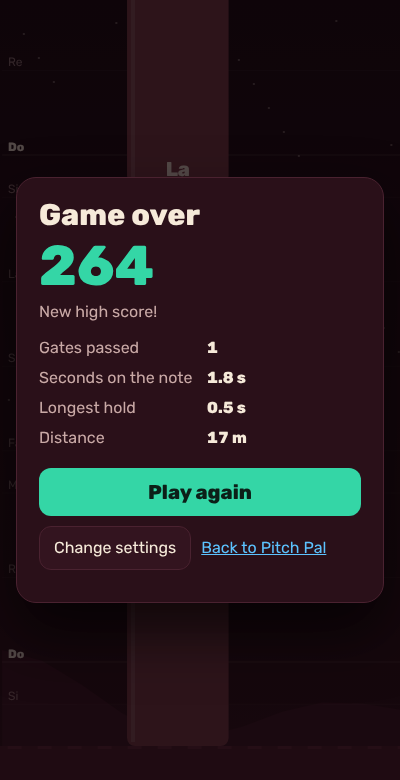
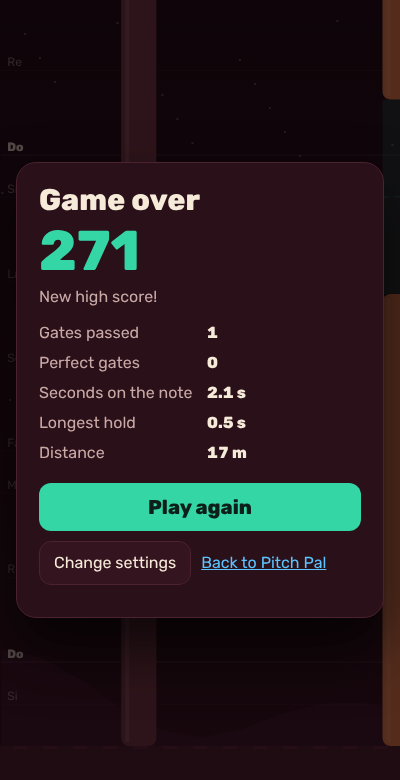
Pitch Glider: perfect-line feedback, Perfect gate celebration, Beginner + Middle voice defaults, settings behind a button
Claude-Session: https://claude.ai/code/session_01F1MwCQZm1ikPFmdXvYPEhy

diff --git a/index.html b/index.html
@@ -36,6 +36,11 @@ a{color:var(--lo)}
 .err{color:var(--hi)}
 #target{position:fixed;left:50%;top:78px;transform:translateX(-50%);background:#1b0a12d9;border:1px solid var(--line);border-radius:14px;padding:6px 18px;text-align:center;pointer-events:none;line-height:1.1}
 #target span{font-size:13px;color:var(--mute)}#target b{display:block;font-size:40px;font-weight:800;color:var(--on)}#target i{display:block;font-style:normal;font-weight:700;font-size:16px;min-height:1.2em}
+.pop{position:fixed;left:50%;top:42%;transform:translate(-50%,-50%);font-size:clamp(34px,9vw,60px);font-weight:800;color:#ffd166;text-shadow:0 0 24px #ffd16699,0 3px 0 #7a4a00;pointer-events:none;animation:pop 1.6s ease-out forwards;white-space:nowrap;text-align:center;line-height:1}
+.pop small{display:block;font-size:.4em;color:var(--ink);text-shadow:none;margin-top:6px}
+@keyframes pop{0%{opacity:0;transform:translate(-50%,-50%) scale(.4)}18%{opacity:1;transform:translate(-50%,-50%) scale(1.15)}30%{transform:translate(-50%,-50%) scale(1)}80%{opacity:1}100%{opacity:0;transform:translate(-50%,-90%) scale(1)}}
+#target.perfect{border-color:#ffd166;box-shadow:0 0 24px #ffd16655}#target.perfect b{color:#ffd166}
+@media(prefers-reduced-motion:reduce){.pop{animation-duration:2.4s}}
 [hidden]{display:none!important}
 </style>
 </head>
@@ -53,9 +58,13 @@ a{color:var(--lo)}
   <div class="card">
     <h1>Pitch Glider</h1>
     <p>Your voice is the bird's wings. Sing <b>higher</b> to rise, <b>lower</b> to drop, and stay quiet to glide down. Hold the right note to fly through each gate. Long tunnels mean long notes!</p>
+    <p id="sumLine" style="font-size:14px"></p>
+    <button class="go" id="goBtn">Start singing</button>
+    <button id="setBtn" style="width:100%;margin-top:8px" aria-expanded="false">Settings</button>
+    <div id="settings" hidden>
     <div class="row">
-      <select id="range" aria-label="Voice range"><option value="45">Lower voice</option><option value="52">Middle voice</option><option value="57">Higher voice</option></select>
-      <select id="diff" aria-label="Difficulty"><option value="0">Beginner (very slow)</option><option value="1" selected>Easy</option><option value="2">Normal</option><option value="3">Hard</option></select>
+      <select id="range" aria-label="Voice range"><option value="45">Lower voice</option><option value="52" selected>Middle voice</option><option value="57">Higher voice</option></select>
+      <select id="diff" aria-label="Difficulty"><option value="0" selected>Beginner (very slow)</option><option value="1">Easy</option><option value="2">Normal</option><option value="3">Hard</option></select>
     </div>
     <div class="row">
       <select id="key" aria-label="Scale key"><option value="0">Do (C)</option><option value="2">Re (D)</option><option value="4">Mi (E)</option><option value="5">Fa (F)</option><option value="7">Sol (G)</option><option value="9">La (A)</option><option value="11">Si (B)</option><option value="1">Do# (C#)</option><option value="3">Re# (D#)</option><option value="6">Fa# (F#)</option><option value="8">Sol# (G#)</option><option value="10">La# (A#)</option></select>
@@ -65,7 +74,7 @@ a{color:var(--lo)}
     <div class="row"><select id="guide" aria-label="Guide note"><option value="hold" selected>Keep playing the note until I pass the gate</option><option value="hint">Play each note once, briefly</option><option value="off">No guide note</option></select></div>
     <label><input type="checkbox" id="fold" checked> Any octave counts</label><br>
     <button id="listen" style="margin-top:6px">Listen to the scale</button>
-    <button class="go" id="goBtn">Start singing</button>
+    </div>
     <p class="err" id="err" hidden></p>
     <p style="font-size:14px">Use headphones: otherwise the mic hears the guide note too. Bluetooth headphones on Android: connect them after you press Start. <a href="pitch-pal.html">Back to Pitch Pal</a></p>
   </div>
@@ -77,6 +86,7 @@ a{color:var(--lo)}
     <div class="big" id="eScore">0</div><p id="eBest">&nbsp;</p>
     <div class="stats">
       <span>Gates passed</span><b id="eGates">0</b>
+      <span>Perfect gates</span><b id="ePerf">0</b>
       <span>Seconds on the note</span><b id="eSec">0</b>
       <span>Longest hold</span><b id="eHold">0</b>
       <span>Distance</span><b id="eDist">0</b>
@@ -137,11 +147,13 @@ function guide(note){ // a soft, steady guide tone; note=null fades it out
     if(gv.note==null){gv.o.frequency.setValueAtTime(m2f(note),t);gv.o2.frequency.setValueAtTime(2*m2f(note),t)}
     gv.gn.gain.setTargetAtTime(0.13,t,0.04);gv.note=note}
 }
+function bigPop(t,sub){const d=document.createElement('div');d.className='pop';d.textContent=t;const sm=document.createElement('small');sm.textContent=sub;d.appendChild(sm);document.body.appendChild(d);setTimeout(()=>d.remove(),2600);if(navigator.vibrate)try{navigator.vibrate(60)}catch(e){}}
+function fanfare(){if(!ctx)return;const t=ctx.currentTime;[0,4,7,12].forEach((x,i)=>{const o=ctx.createOscillator(),gn=ctx.createGain();o.type='triangle';o.frequency.value=m2f(72+x);o.connect(gn);gn.connect(ctx.destination);const s0=t+i*0.08;gn.gain.setValueAtTime(0,s0);gn.gain.linearRampToValueAtTime(0.12,s0+0.02);gn.gain.exponentialRampToValueAtTime(0.001,s0+0.5);o.start(s0);o.stop(s0+0.55)})}
 function ding(){if(!ctx)return;const o=ctx.createOscillator(),gn=ctx.createGain(),t=ctx.currentTime;o.type='sine';o.frequency.setValueAtTime(1320,t);o.frequency.setValueAtTime(1760,t+0.07);o.connect(gn);gn.connect(ctx.destination);gn.gain.setValueAtTime(0.08,t);gn.gain.exponentialRampToValueAtTime(0.001,t+0.25);o.start(t);o.stop(t+0.26)}
 
 function newGame(){
   const base=+$('range').value;KEY=+$('key').value;let root=base+((KEY-base)%12+12)%12;if(root>base+5)root-=12;lo=root-2;hi=root+14;
-  const L=LV[+$('diff').value];S={L,t:0,dist:0,speed:L.v0,y:GROUND(),vy:0,pitch:null,obs:[],nextX:PX()+L.v0*4,lives:L.lives,inv:0,score:0,gates:0,onSec:0,hold:0,holdBest:0,shake:0,parts:[],base,gap:L.gap};
+  const L=LV[+$('diff').value];S={L,t:0,dist:0,speed:L.v0,y:GROUND(),vy:0,pitch:null,obs:[],nextX:PX()+L.v0*4,lives:L.lives,inv:0,score:0,gates:0,onSec:0,hold:0,holdBest:0,shake:0,parts:[],base,gap:L.gap,perf:Math.max(0.2,Math.min(0.5,L.gap*0.22)),perfects:0};
   SC=$('scale').value.split(',').map(Number);KEY=+$('key').value;S.order=$('order').value;S.idx=0;S.dir=1;
   S.notes=[];for(let m=lo+1;m<=hi-1;m++)if(inScale(m))S.notes.push(m);
   if(S.order==='up'){const t=S.notes.findIndex(m=>((m-KEY)%12+12)%12===0);S.run=S.notes.slice(Math.max(0,t),Math.max(0,t)+SC.length+1);if(S.run.length<3)S.run=S.notes.slice(0,SC.length+1)}
@@ -175,17 +187,20 @@ function step(dt){
     if($('fold').checked){const ref=ahead?ahead.note:(lo+hi)/2;m-=12*Math.round((m-ref)/12)}
     m=Math.max(lo,Math.min(hi,m));const ty=Y(m);S.y+=(ty-S.y)*Math.min(1,dt*14);S.vy=0;S.pitch=m;
   }else{S.pitch=null;S.vy=Math.min(S.vy+220*dt,140);S.y=Math.min(GROUND()-14,S.y+S.vy*dt)}
-  const px=S.dist+PX(),r=14;let inside=false;
+  const px=S.dist+PX(),r=14;let inside=false,perfNow=false;
   for(const o of S.obs){
     const sx=o.x-S.dist;
     if($('guide').value==='hint'&&!o.hinted&&sx<PX()+S.speed*S.L.lead){o.hinted=true;tone(o.note,0.8)}
     const gh=Math.max(r+10,S.gap*(GROUND()-TOP())/(hi-lo)),gy=Y(o.note);
     if(px+r>o.x&&px-r<o.x+o.len){
       if(S.y-r<gy-gh||S.y+r>gy+gh){if(S.inv<=0&&!o.hit){o.hit=true;S.lives--;S.inv=1.4;S.shake=0.4;S.hold=0;if(S.lives<=0)return end()}}
-      else if(S.pitch!=null){inside=true}
+      else if(S.pitch!=null){inside=true;o.inF=(o.inF||0)+dt;const pf=Math.abs(S.pitch-o.note)<S.perf;if(pf){o.perfF=(o.perfF||0)+dt;perfNow=true}}
     }
-    if(!o.passed&&px-r>o.x+o.len){o.passed=true;if(!o.hit){S.gates++;S.score+=50+Math.round(o.len/S.speed*40);ding();burst(PX(),S.y)}}
+    if(!o.passed&&px-r>o.x+o.len){o.passed=true;if(!o.hit){S.gates++;S.score+=50+Math.round(o.len/S.speed*40);const need=o.len/S.speed;
+      if((o.perfF||0)>=Math.max(0.3,need*0.7)){S.perfects++;S.score+=200;fanfare();burst(PX(),S.y,'255,209,102',40);bigPop('Perfect gate!','+200 · '+S.perfects+(S.perfects>1?' perfect gates':' perfect gate'))}else{ding();burst(PX(),S.y)}}}
   }
+  if(perfNow){S.score+=dt*30;S.sparkT=(S.sparkT||0)-dt;if(S.sparkT<=0){S.sparkT=0.05;S.parts.push({x:PX()-10,y:S.y+(Math.random()-0.5)*16,vx:-120-Math.random()*60,vy:(Math.random()-0.5)*60,life:0.5,c:'255,209,102'})}}
+  S.perfNow=perfNow;
   if(inside){S.onSec+=dt;S.hold+=dt;S.holdBest=Math.max(S.holdBest,S.hold);S.score+=dt*30*(1+Math.min(4,Math.floor(S.hold/2)))}else S.hold=0;
   S.score+=dt*5;S.inv-=dt;S.shake=Math.max(0,S.shake-dt);
   S.obs=S.obs.filter(o=>o.x+o.len>S.dist-50);spawnUntil();
@@ -194,10 +209,10 @@ function step(dt){
   S.inside=inside;
   if($('guide').value==='hold'){const tgt=S.obs.find(o=>!o.passed&&o.x+o.len>px-r-2&&o.x-S.dist<PX()+S.speed*S.L.lead);guide(tgt?tgt.note:null)}else guide(null);
   if(ahead){$('tNote').textContent=sol(ahead.note);const tg=Math.max(0.5,S.gap*0.8);
-    const dd=S.pitch==null?null:S.pitch-ahead.note;$('tDir').textContent=dd==null?'sing now…':Math.abs(dd)<=tg?'✓ hold it!':dd<0?'▲ go higher':'▼ go lower';
-    $('tDir').style.color=dd==null?'#c9a9a6':Math.abs(dd)<=tg?'#34d6a6':dd<0?'#5cc3ff':'#ff8a4c'}
+    const dd=S.pitch==null?null:S.pitch-ahead.note;$('target').classList.toggle('perfect',dd!=null&&Math.abs(dd)<S.perf);$('tDir').textContent=dd==null?'sing now…':Math.abs(dd)<S.perf?'★ perfect!':Math.abs(dd)<=tg?'✓ hold it!':dd<0?'▲ go higher':'▼ go lower';
+    $('tDir').style.color=dd==null?'#c9a9a6':Math.abs(dd)<S.perf?'#ffd166':Math.abs(dd)<=tg?'#34d6a6':dd<0?'#5cc3ff':'#ff8a4c'}
 }
-function burst(x,y){for(let i=0;i<14;i++){const a=Math.random()*6.28,v=80+Math.random()*120;S.parts.push({x,y,vx:Math.cos(a)*v,vy:Math.sin(a)*v-60,life:0.6+Math.random()*0.4})}}
+function burst(x,y,c='52,214,166',n=14){for(let i=0;i<n;i++){const a=Math.random()*6.28,v=80+Math.random()*120;S.parts.push({x,y,vx:Math.cos(a)*v*(n>20?1.6:1),vy:Math.sin(a)*v-60,life:0.6+Math.random()*0.5,c})}}
 
 function draw(){
   g.setTransform(DPR,0,0,DPR,0,0);
@@ -222,17 +237,18 @@ function draw(){
     g.fillStyle=col;rr(x,TOP()-80,o.len,gy-gh-(TOP()-80),8);rr(x,gy+gh,o.len,GROUND()-(gy+gh),8);
     g.fillStyle='#ffffff22';g.fillRect(x+4,TOP()-80,4,gy-gh-(TOP()-80)-4);g.fillRect(x+4,gy+gh+4,4,GROUND()-gy-gh-8);
     g.fillStyle='#34d6a633';g.fillRect(x,gy-gh,o.len,gh*2);
-    g.strokeStyle='#34d6a666';g.setLineDash([6,6]);g.beginPath();g.moveTo(x,gy);g.lineTo(x+o.len,gy);g.stroke();g.setLineDash([]);
+    const lit=S.perfNow&&x<PX()&&x+o.len>PX();if(lit){g.fillStyle='#ffd16622';g.fillRect(x,gy-S.perf*lh,o.len,2*S.perf*lh)}
+    g.strokeStyle=lit?'#ffd166':'#34d6a666';g.lineWidth=lit?3:1;g.setLineDash(lit?[]:[6,6]);g.beginPath();g.moveTo(x,gy);g.lineTo(x+o.len,gy);g.stroke();g.setLineDash([]);g.lineWidth=1;
     g.fillStyle='#f6ead9';g.font='800 20px Rubik,sans-serif';g.textAlign='center';g.fillText(sol(o.note),x+Math.min(o.len/2,60),gy-gh-14);g.textAlign='start';
   }
   // trail
-  for(const p of S.parts){g.fillStyle=`rgba(52,214,166,${p.life})`;g.beginPath();g.arc(p.x,p.y,3,0,7);g.fill()}
+  for(const p of S.parts){g.fillStyle=`rgba(${p.c||'52,214,166'},${Math.min(1,p.life*1.5)})`;g.beginPath();g.arc(p.x,p.y,3,0,7);g.fill()}
   // bird
   const bx=PX(),by=S.y,flap=Math.sin(S.t*(S.pitch!=null?18:6));
   if(S.inv>0&&Math.floor(S.inv*10)%2)return;
   g.save();g.translate(bx,by);g.rotate(S.pitch==null?0.25:-0.08);
-  if(S.inside){g.shadowColor='#34d6a6';g.shadowBlur=24}
-  g.fillStyle='#34d6a6';g.beginPath();g.ellipse(0,0,17,14,0,0,7);g.fill();g.shadowBlur=0;
+  if(S.perfNow){g.shadowColor='#ffd166';g.shadowBlur=34}else if(S.inside){g.shadowColor='#34d6a6';g.shadowBlur=24}
+  g.fillStyle=S.perfNow?'#ffd166':'#34d6a6';g.beginPath();g.ellipse(0,0,17,14,0,0,7);g.fill();g.shadowBlur=0;
   g.fillStyle='#1f9c78';g.beginPath();g.ellipse(-4,2+flap*3,10,6+flap*3,-0.4,0,7);g.fill();
   g.fillStyle='#f6ead9';g.beginPath();g.ellipse(4,4,9,7,0,0,7);g.fill();
   g.fillStyle='#fff';g.beginPath();g.arc(7,-4,5,0,7);g.fill();g.fillStyle='#1b0a12';g.beginPath();g.arc(8.5,-4,2.4,0,7);g.fill();
@@ -250,7 +266,7 @@ function loop(ts){
 function end(){
   running=false;guide(null);$('hud').hidden=true;$('target').hidden=true;
   const sc=Math.round(S.score);try{best=+localStorage.getItem('pitchglider:best')||0;if(sc>best){localStorage.setItem('pitchglider:best',sc);best=sc;$('eBest').textContent='New high score!'}else $('eBest').textContent='High score: '+best.toLocaleString()}catch(e){$('eBest').textContent=' '}
-  $('eScore').textContent=sc.toLocaleString();$('eGates').textContent=S.gates;$('eSec').textContent=S.onSec.toFixed(1)+' s';$('eHold').textContent=S.holdBest.toFixed(1)+' s';$('eDist').textContent=Math.round(S.dist/100)+' m';
+  $('eScore').textContent=sc.toLocaleString();$('eGates').textContent=S.gates;$('ePerf').textContent=S.perfects;$('eSec').textContent=S.onSec.toFixed(1)+' s';$('eHold').textContent=S.holdBest.toFixed(1)+' s';$('eDist').textContent=Math.round(S.dist/100)+' m';
   $('end').hidden=false;
 }
 async function go(){
@@ -260,8 +276,15 @@ async function go(){
 }
 $('listen').onclick=()=>{ctx=ctx||new AudioContext();ctx.resume();const k=+$('key').value,sc=$('scale').value.split(',').map(Number),b=+$('range').value;
   let root=b+((k-b)%12+12)%12;if(root>b+5)root-=12;const ns=[...sc.map(x=>root+x),root+12];[...ns,...ns.slice(0,-1).reverse()].forEach((m,i)=>setTimeout(()=>tone(m,0.45),i*480))};
+const SET=['range','diff','key','scale','order','guide'];
+try{const sv=JSON.parse(localStorage.getItem('pitchglider:set')||'{}');for(const k of SET)if(sv[k]!=null&&[...$(k).options].some(o=>o.value===sv[k]))$(k).value=sv[k];if(sv.fold!=null)$('fold').checked=sv.fold}catch(e){}
+function summary(){const t=id=>$(id).selectedOptions[0].text;$('sumLine').textContent=`${t('diff')} · ${t('range')} · ${t('key').split(' ')[0]} ${t('scale').toLowerCase()} · ${t('order').toLowerCase()}`;
+  try{const sv={fold:$('fold').checked};for(const k of SET)sv[k]=$(k).value;localStorage.setItem('pitchglider:set',JSON.stringify(sv))}catch(e){}}
+for(const k of [...SET,'fold'])$(k).addEventListener('change',summary);summary();
+function showSettings(on){$('settings').hidden=!on;$('setBtn').setAttribute('aria-expanded',on);$('setBtn').textContent=on?'Hide settings':'Settings'}
+$('setBtn').onclick=()=>showSettings($('settings').hidden);
 $('goBtn').onclick=go;$('againBtn').onclick=go;
-$('menuBtn').onclick=()=>{$('end').hidden=true;$('start').hidden=false};
+$('menuBtn').onclick=()=>{$('end').hidden=true;$('start').hidden=false;showSettings(true)};
 document.addEventListener('visibilitychange',()=>{if(document.hidden&&running){running=false;guide(null);$('hud').hidden=true;$('target').hidden=true;$('start').hidden=false;$('goBtn').textContent='Start again'}});
 requestAnimationFrame(loop);
 }
